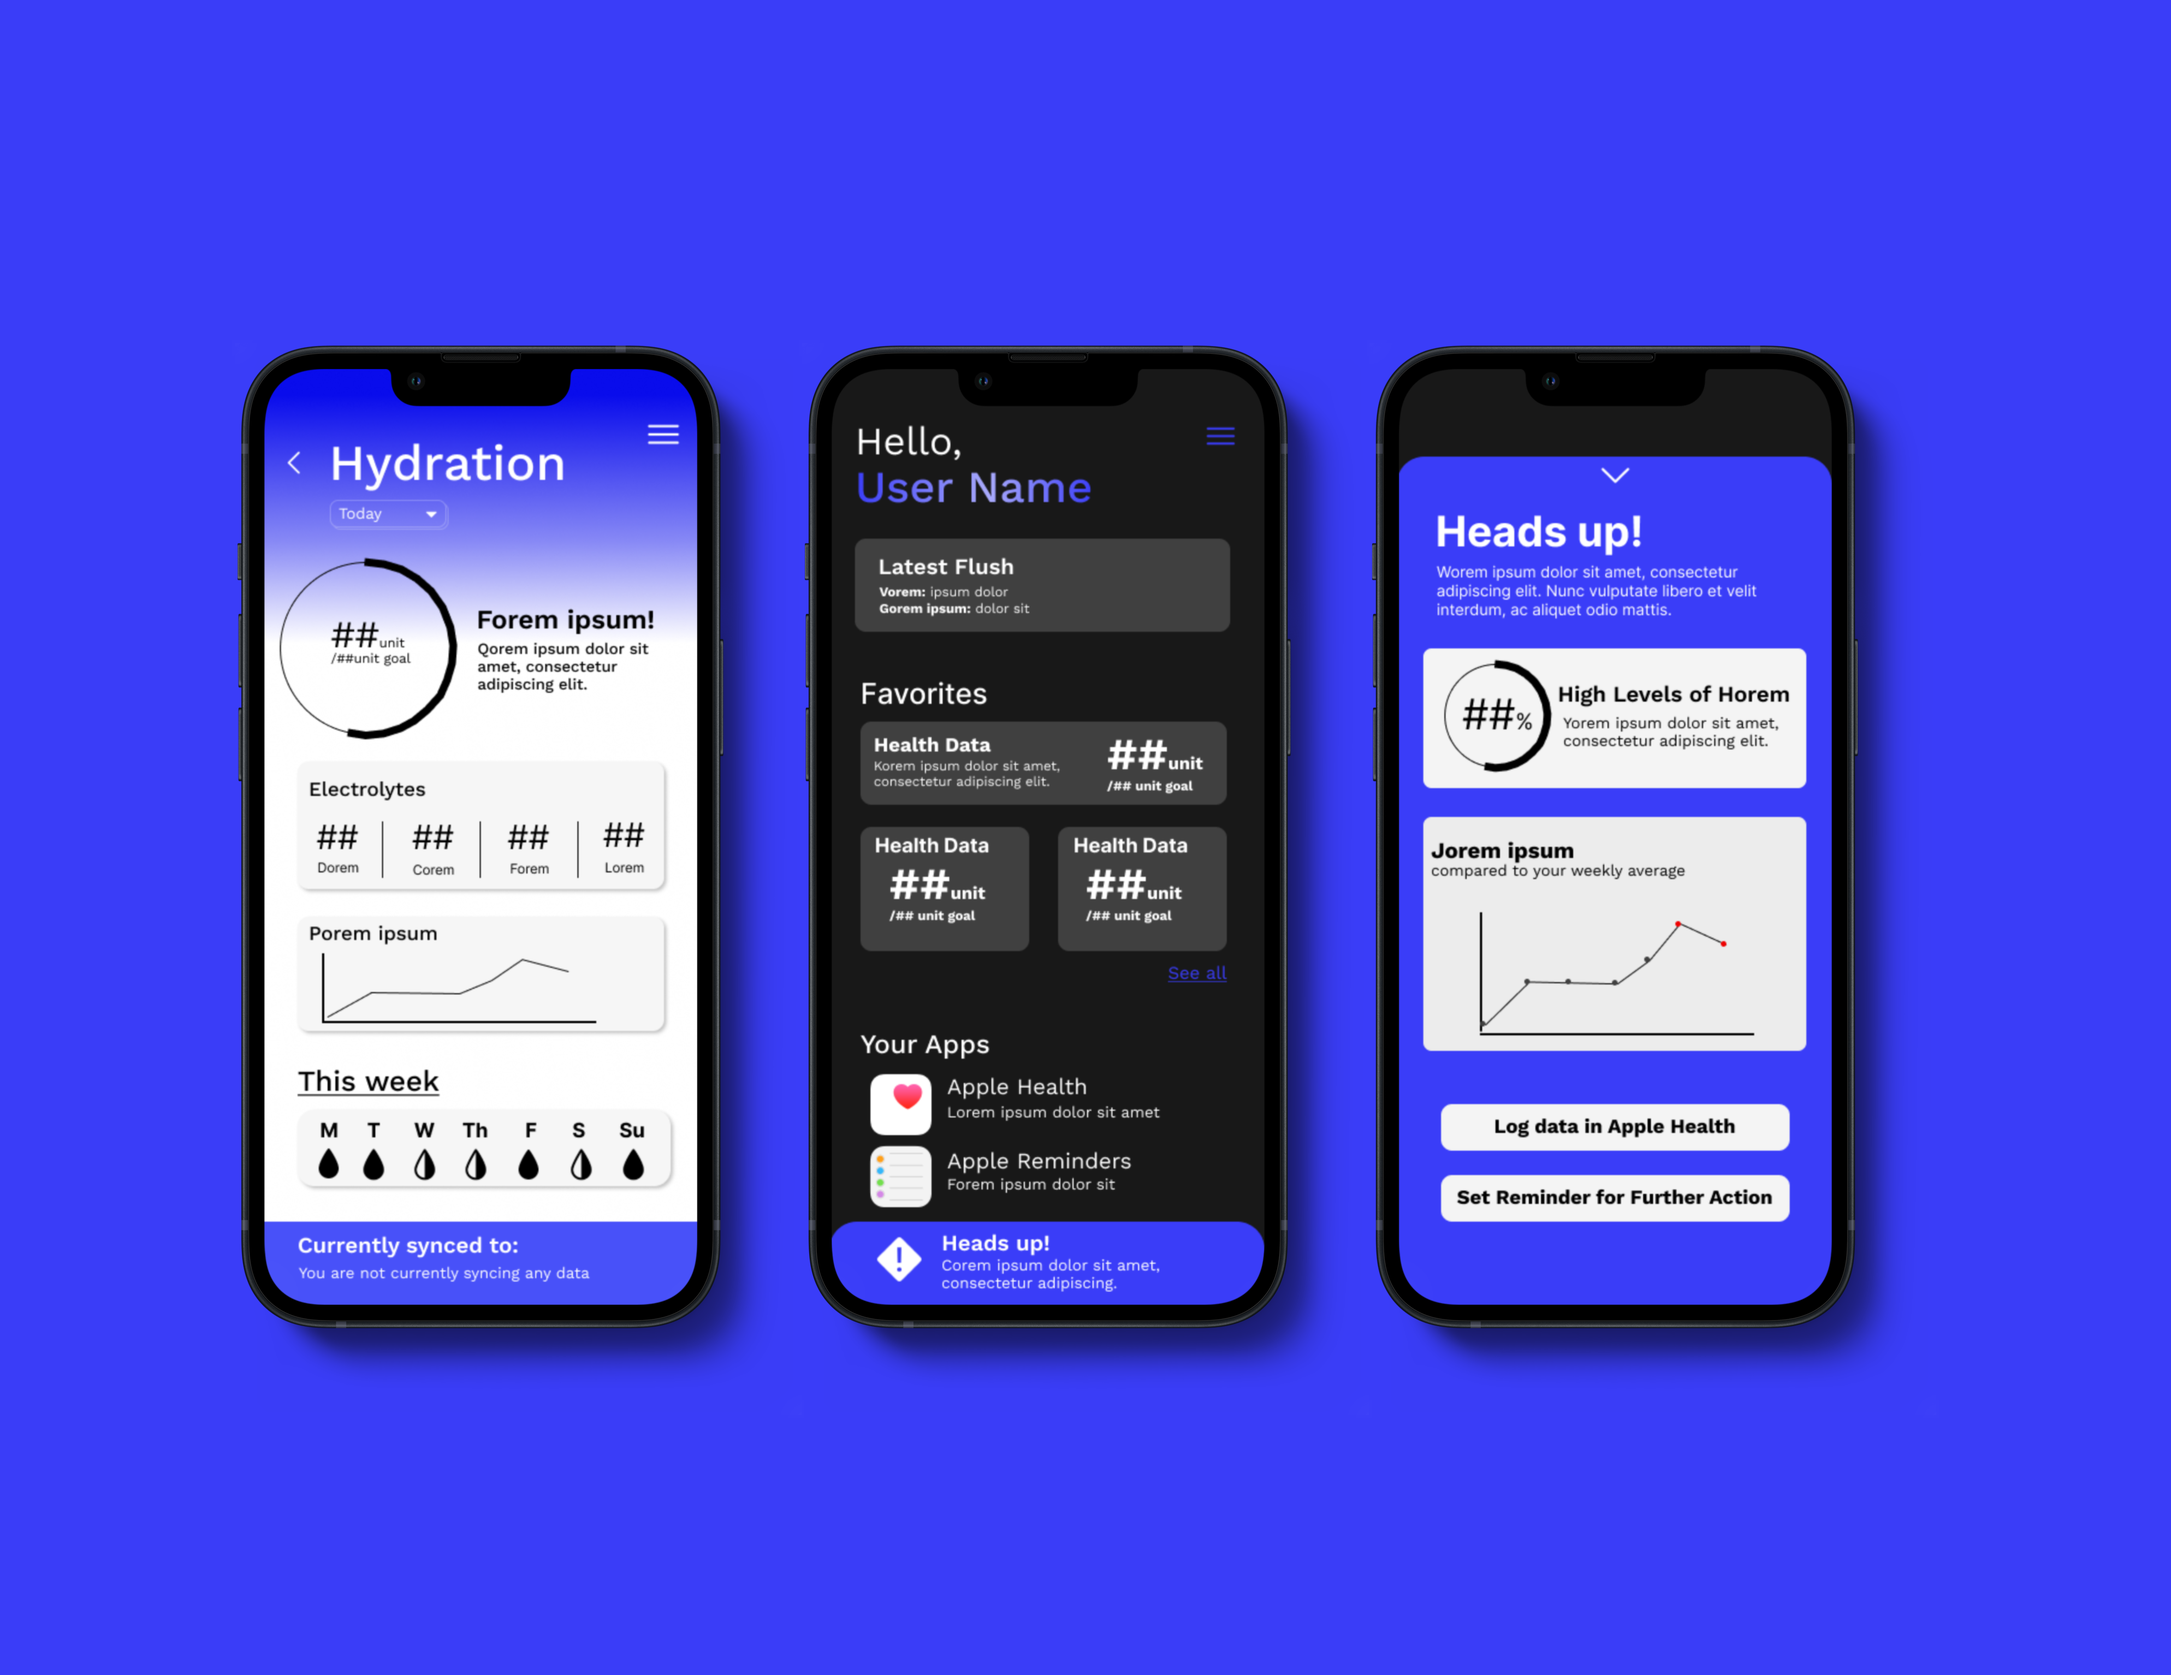
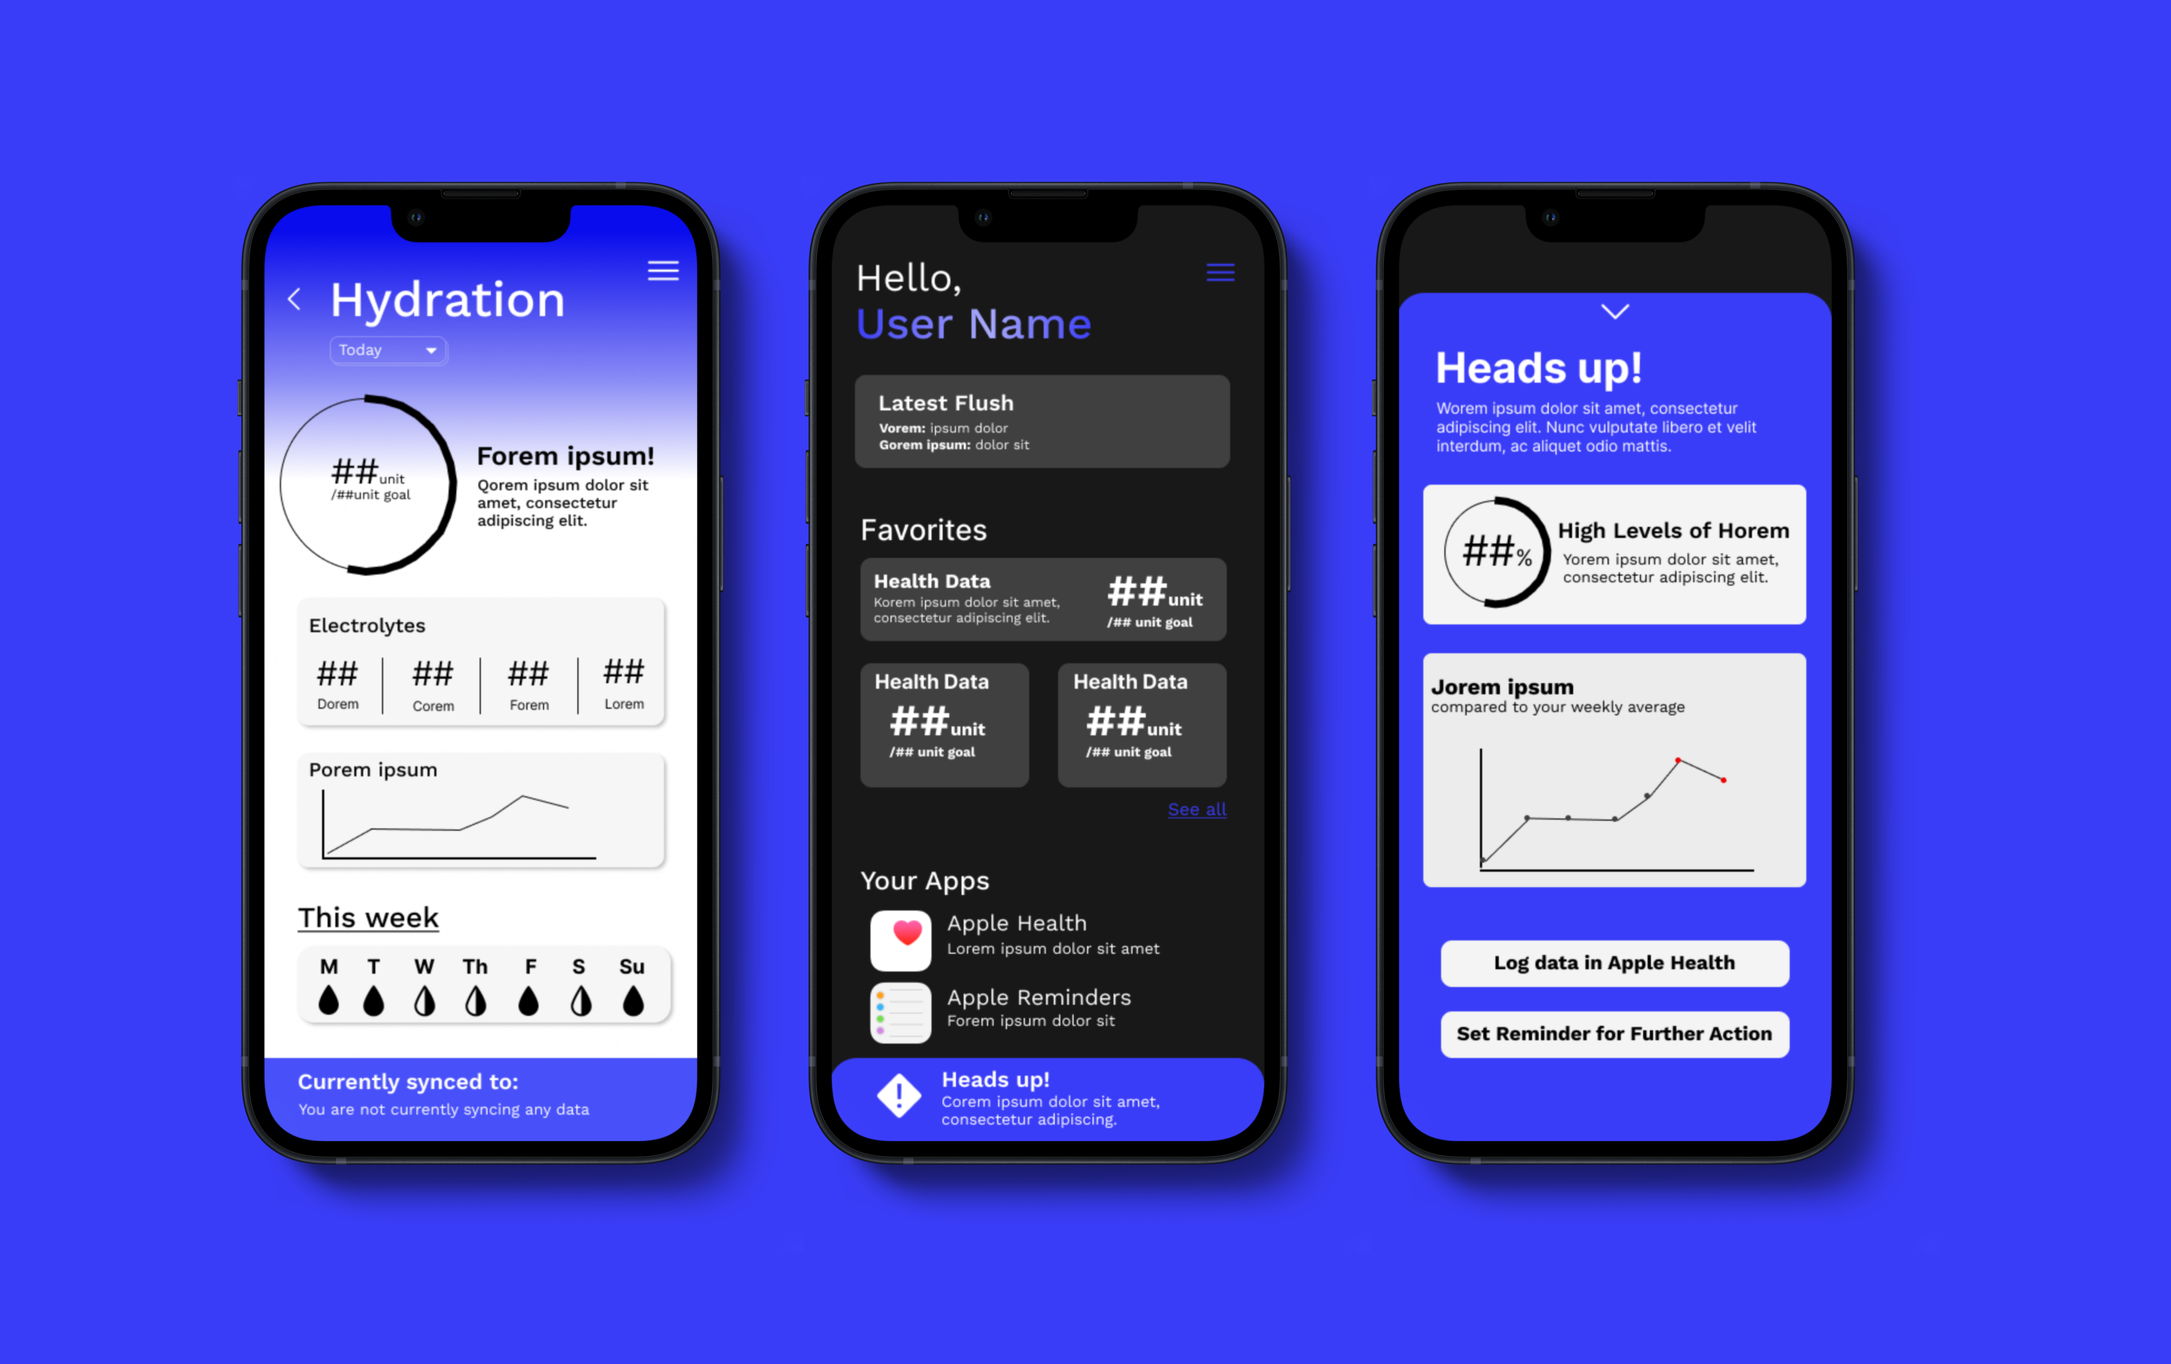
dark mode and mock ups

diff --git a/smart-toilet.css b/smart-toilet.css
@@ -1,11 +1,13 @@
 .nav-bar{
-    background-image: linear-gradient(#f28093,#f49445);
     z-index: 10;
 }
-.nav-bar a:link, .nav-bar a:visited{
+.container-fluid{
+    background-color: #282828;
+}
+/* .nav-bar a:link, .nav-bar a:visited{
     text-decoration: none;
     color: #f6f1ee;
-}
+}  */
 a:link, a:visited{
     color:#f28093;
     font-family: 'Inconsolata', monospace;
@@ -13,22 +15,27 @@ a:link, a:visited{
 .main-content{
     padding-top: 14em;
     padding-bottom: 10em;
-    background-color: #f6f1ee;
+    background-color: #181818;
     margin-bottom: 5em;
 }
 .title h1{
     font-family: 'Inconsolata', monospace;
     font-size: 4em;
-    padding-bottom: 1.5rem;
+    padding-bottom: 1rem;
+    background-image: radial-gradient(#f28093,#f49445);
+    background-size: 100%;
+    -webkit-background-clip: text;
+    background-clip:text;
+    -webkit-text-fill-color: transparent; 
 }
 .title{
    margin-left: 2em;
 }
 .main-content p{
     font-size:1.5em;
+    color: #f6f1ee;
 }
 .main-content img{
-    box-shadow: 2px 2px 6px #929292;
     transform: rotate(3deg);
     z-index: 0;
 }
@@ -37,10 +44,13 @@ a:link, a:visited{
 }
 h1, h2, h3, h4{
     font-family: 'Inconsolata', monospace;
-   
 }
 h4{
     text-decoration: underline;
+    color:#ffffff;
+}
+.page{
+    color:#f6f1ee;
 }
 #description{
     text-align: center;
@@ -58,11 +68,13 @@ h4{
 }
 .page p, h5, h6{
     font-family: 'Karla', sans-serif;
+    color: #f6f1ee;
 }
 h5, h6{
     margin: 1em 1em 1em 0em;
     padding-left: 1em;
     border-left: .3rem solid #f49445;
+    color:#ffffff;
 }
 #survey img{
     position: relative;

diff --git a/index.css b/index.css
@@ -1,13 +1,19 @@
 .main-content{
     padding-top: 5em;
     height: 41em;
-    background-image: linear-gradient(#f28093,#f49445);
-    color: #EEEEEE;
-   
+    background-color: #181818;
+}
+.container-fluid{
+    background-color: #282828;
 }
 .big-words{
     margin-left:3em;
     font-family: 'Inconsolata', serif;
+    background-image: radial-gradient(#f28093,#f49445);
+    background-size: 100%;
+    -webkit-background-clip: text;
+    background-clip:text;
+    -webkit-text-fill-color: transparent; 
 }
 .big-words h1{
     font-size: 100px;
@@ -16,12 +22,13 @@
 .big-words h6{
     font-size: 38px;
 }
+
 .proj-card{
     margin: 3em;
-    background-color: #ffffff;
+    background-color: #404040;
     border-radius: 2em;
     align-items: center;
-    box-shadow: 0px 12px 20px #929292;
+   
 }
 .proj-card img{
     margin-top: 1em;
@@ -30,9 +37,9 @@
     height: 50%;
     width: 100%;
 } 
-.proj-card a:link, a:visited{
+.proj-card a:link, .proj-card a:visited{
     text-decoration: none;
-    color:#1f1f1f;
+    color:#ffffff;
 }
 .proj-card h2{
     margin-left: .5em;
@@ -43,14 +50,14 @@
     font-family: 'Karla', sans-serif;
 }
 .down-nav{
-    background-color: #f49445;
+    background-color: #181818;
     margin-bottom: 7em;
     padding-bottom: 1em;
 }
-.nav-bar{
-    background-color: #f6f1ee;
-}
-.nav-bar a:link, a:visited{
+/* .nav-bar{
+    background-color: #181818
+} */
+/* .nav-bar a:link, .nav-bar a:visited{
     text-decoration: none;
-    color: #1f1f1f;
-}
+    color: #f6f1ee;
+} */

diff --git a/index.html b/index.html
@@ -54,7 +54,7 @@
             <div class="row justify-content-center" id="projects">
                 <div class="col-3 proj-card" >
                     <a href="smart-toilet.html">
-                        <img src="imgs/smarttoiletfram.png" alt="blank picture" class="img-responsive">
+                        <img src="imgs/mockup1.png" alt="blank picture" class="img-responsive">
                         <h2>Smart Toilet</h2>
                         <p>Health tracking and illness prevention via speculative smart toilet technology</p>
                         
@@ -62,7 +62,7 @@
                 </div>
                 <div class="col-3 proj-card" >
                     <a href="gge.html">
-                        <img src="imgs/ggeproto.png" alt="blank picture" class="img-responsive" width="100%" height="50%">
+                        <img src="imgs/mockup2.png" alt="blank picture" class="img-responsive" width="100%" height="50%">
                         <h2>Girls Gotta Eat</h2>
                         <p>High protein recipes for women on the go</p>
                     </a>   

diff --git a/about.css b/about.css
@@ -1,6 +1,9 @@
 .description{
     padding-top: 8em;
 }
+.container-fluid{
+    background-color: #282828;
+}
 #profile{
     height:20em;
     width: 15em;
@@ -10,22 +13,27 @@
     padding-bottom: 5em;
     font-family: 'Karla', sans-serif;
 }
-.about-nav a:link, a:visited{
+.about-nav a:link, .about-nav a:visited{
     text-decoration: underline;
-    color:#4c5a0d;
+    color:#ffce84;
 }
 .description h1, .main-content h1, .more h3{
     font-family: 'Inconsolata', monospace;
-    color: #4c5a0d;
+    color: #f28093;
 }
 .description p, .main-content p, .more li{
     font-family: 'Karla', sans-serif;
     font-size: 17px;
+    color:#f6f1ee;
 }
-.nav-bar{
+.more a:visited, .more a:link{
+    color:#f6f1ee;
+} 
+
+/* .nav-bar{
     background-image: linear-gradient(#f28093,#f49445);
 }
 .nav-bar a:link, .nav-bar a:visited{
     text-decoration: none;
     color: #f6f1ee;
-}
+} */

diff --git a/smart-toilet.html b/smart-toilet.html
@@ -44,8 +44,8 @@
                     <div class="col-3">
                         <img src="imgs/Smarttoilet2.jpeg" alt="smart toilet doodle" height="300vw" width="300vw">
                     </div>
-                    <div class="col-7 align-self-center title">
-                        <h1>Smart Toilet: UX Research Project</h1>
+                    <div class="col-6 align-self-center title">
+                        <h1><br>Smart Toilet App <br> Research & Design</h1>
                         <p>Health tracking and illness prevention via speculative smart toilet technology
                         </p>
                         <a href="#summary">Take a look</a>

diff --git a/about.html b/about.html
@@ -108,9 +108,9 @@
                 <div class="col-3 more">
                     <h3>Contact Me</h3>
                     <ul>
-                        <li>maria@sekyi.com</li>
                         <li><a href="https://www.linkedin.com/in/maria-sekyi-3014191b5/" rel="noopener noreferrer" target="_blank">LinkedIn</a></li>
                         <li><a href="https://acrobat.adobe.com/link/review?uri=urn:aaid:scds:US:6fc855f8-c50f-30bf-8494-5e069ec3ce60" rel="noopener nofereferrer" target="_blank">Resume</a></li>
+                        <li>maria@sekyi.com</li>
                     </ul>
                     
                     <h3>Intrests</h3>

diff --git a/nav.css b/nav.css
@@ -3,6 +3,7 @@
     width: 100%;
     height:4em;
     font-family: 'Inconsolata', monospace;
+    background-color: #121212;
 }
 .nav-buttons{
     padding-top: 1em;
@@ -16,4 +17,8 @@ nav > .col-8{
 }
 .nav-bar a:hover{
     text-decoration: underline;
+}
+.nav-bar a:link, .nav-bar a:visited{
+    text-decoration: none;
+    color: #f6f1ee;
 }

diff --git a/gge.css b/gge.css
@@ -1,11 +1,11 @@
-.nav-bar{
+/* .nav-bar{
     background-image: linear-gradient(#f28093,#f49445);
     z-index: 10;
 }
 .nav-bar a:link, .nav-bar a:visited{
     text-decoration: none;
     color: #f6f1ee;
-}
+} */
 a:link, a:visited{
     color:#f28093;
     font-family: 'Inconsolata', monospace;
